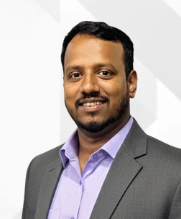
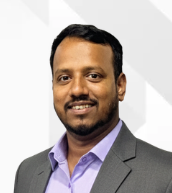
content: update quote citation to Shanmugam / Operations Head and update profile photo

diff --git a/legacy-pages/ramky-industrial-construction-dobbaspet-karnataka.html b/legacy-pages/ramky-industrial-construction-dobbaspet-karnataka.html
@@ -224,8 +224,8 @@
                     </section>
 
                     <blockquote class="p-6 border-l-4 border-primary bg-primary/5 text-on-surface font-medium text-base italic rounded-r-xl">
-                        "Industrial construction requires careful coordination between structural works, heavy equipment, and disciplined site safety. At Aaraa Infrastructure, we execute each stage systematically—from dismantling to foundation and reinforced concrete construction."
-                        <cite class="block mt-3 font-semibold not-italic text-sm text-primary">— Aaraa Infrastructure Project Operations</cite>
+                        "Industrial construction requires careful coordination between structural works, heavy equipment, and disciplined site safety. At Aaraa Infrastructure, we execute each stage systematically—from dismantling to foundation and reinforced concrete construction." — Shanmugam
+                        <cite class="block mt-3 font-semibold not-italic text-sm text-primary">Shanmugam / Operations Head</cite>
                     </blockquote>
 
                     <section id="building-precision" class="space-y-4">

diff --git a/legacy-pages/blog/ramky-industrial-construction-dobbaspet-karnataka.html b/legacy-pages/blog/ramky-industrial-construction-dobbaspet-karnataka.html
@@ -265,8 +265,8 @@
 
                     <!-- Quote Block -->
                     <blockquote class="p-6 border-l-4 border-primary bg-primary/5 text-on-surface font-medium text-base italic rounded-r-xl">
-                        "Industrial construction requires careful coordination between structural works, heavy equipment, and disciplined site safety. At Aaraa Infrastructure, we execute each stage systematically—from dismantling to foundation and reinforced concrete construction."
-                        <cite class="block mt-3 font-semibold not-italic text-sm text-primary">— Aaraa Infrastructure Project Operations</cite>
+                        "Industrial construction requires careful coordination between structural works, heavy equipment, and disciplined site safety. At Aaraa Infrastructure, we execute each stage systematically—from dismantling to foundation and reinforced concrete construction." — Shanmugam
+                        <cite class="block mt-3 font-semibold not-italic text-sm text-primary">Shanmugam / Operations Head</cite>
                     </blockquote>
 
                     <!-- Section 4: Precision & Purpose -->
